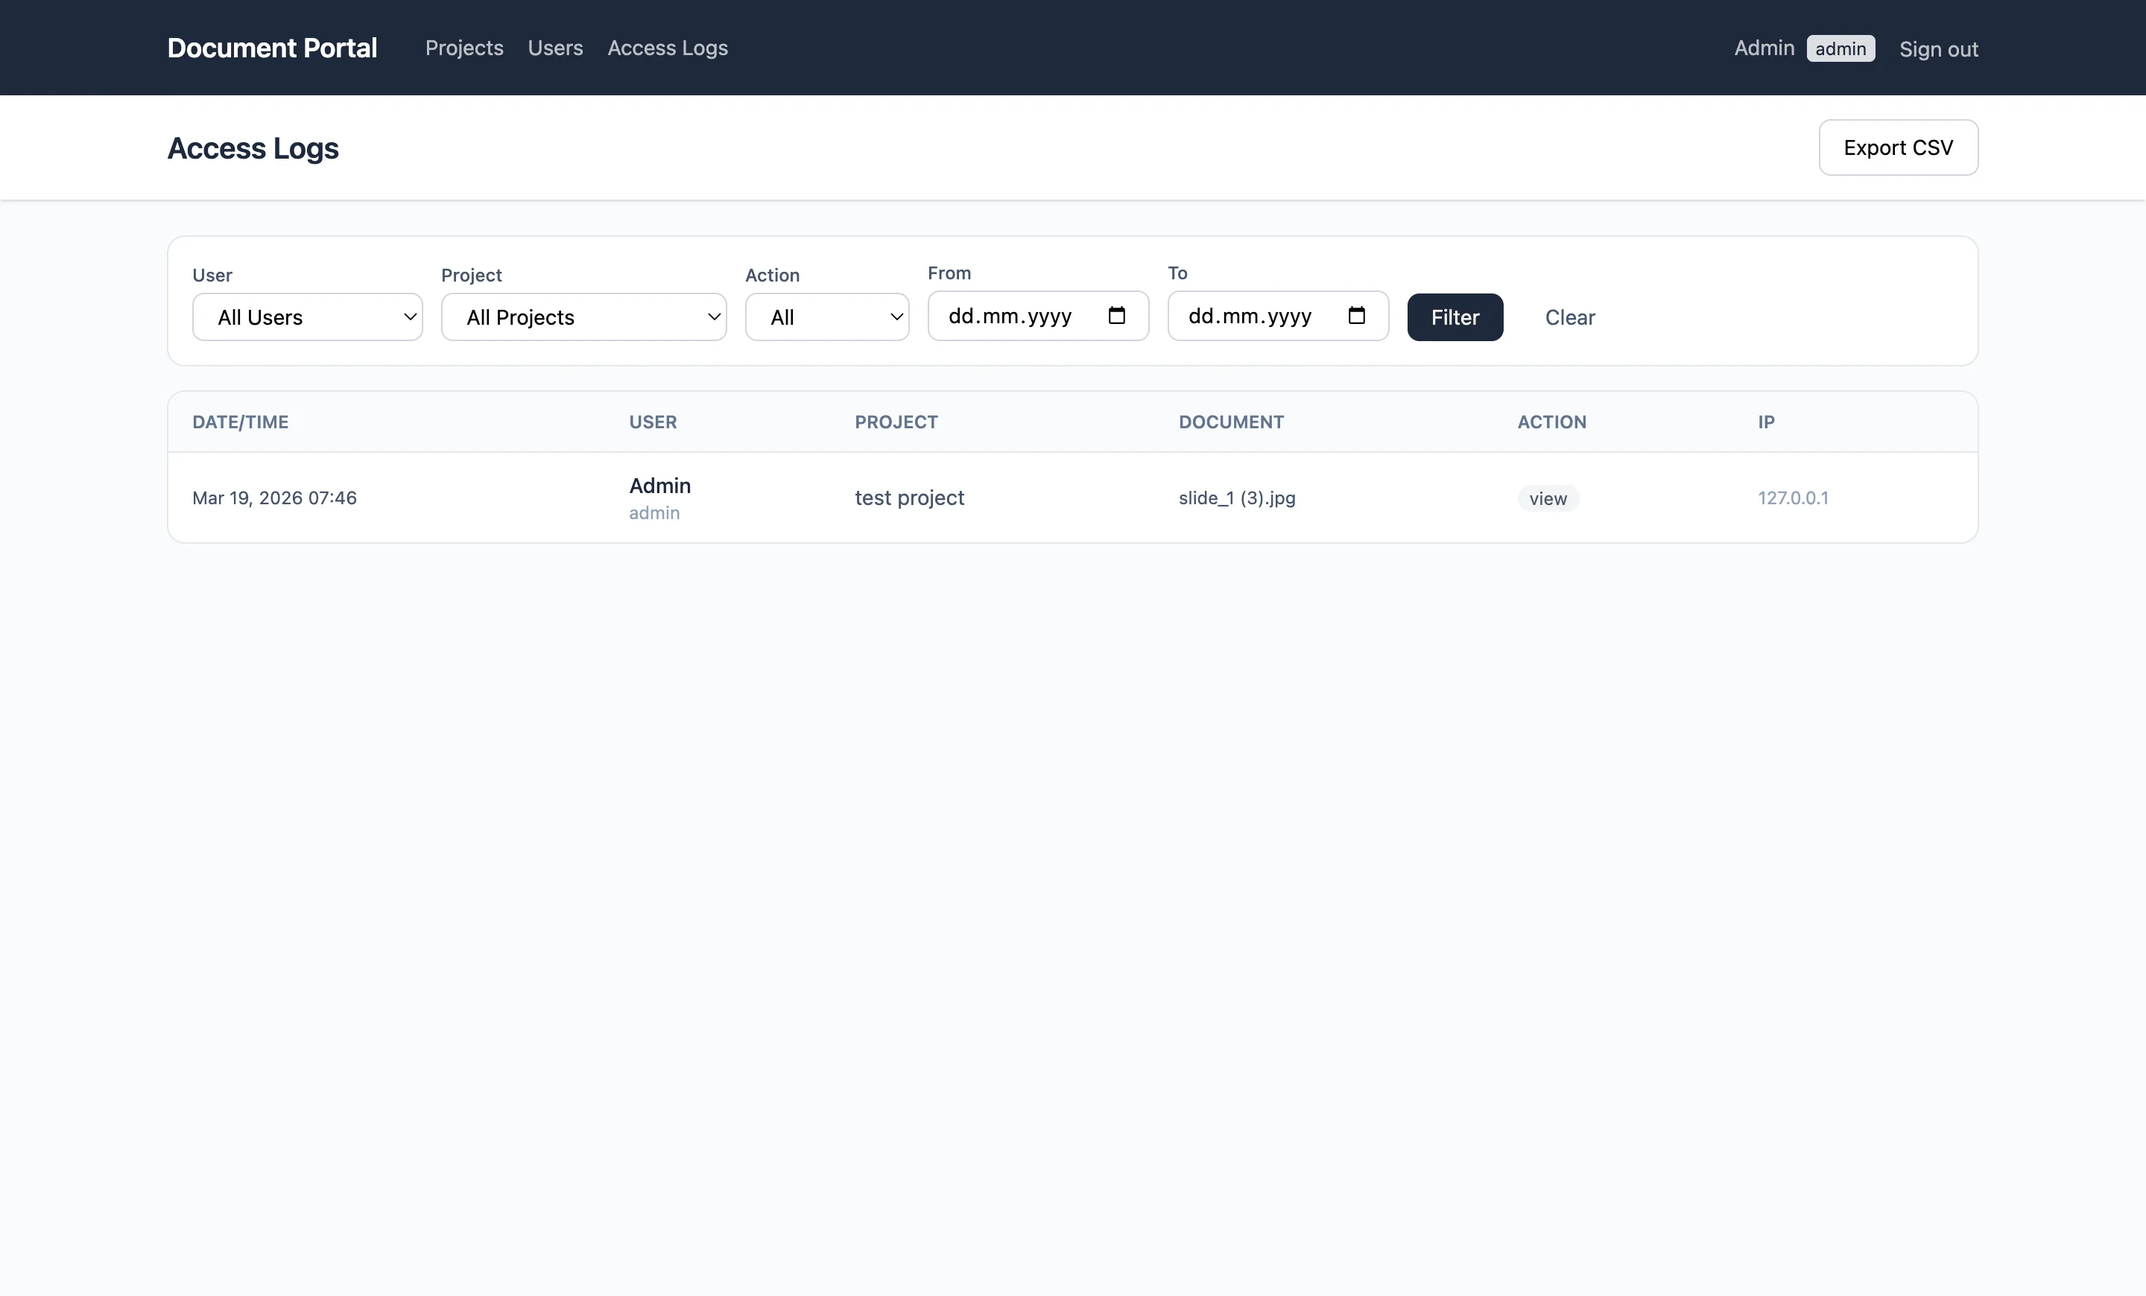
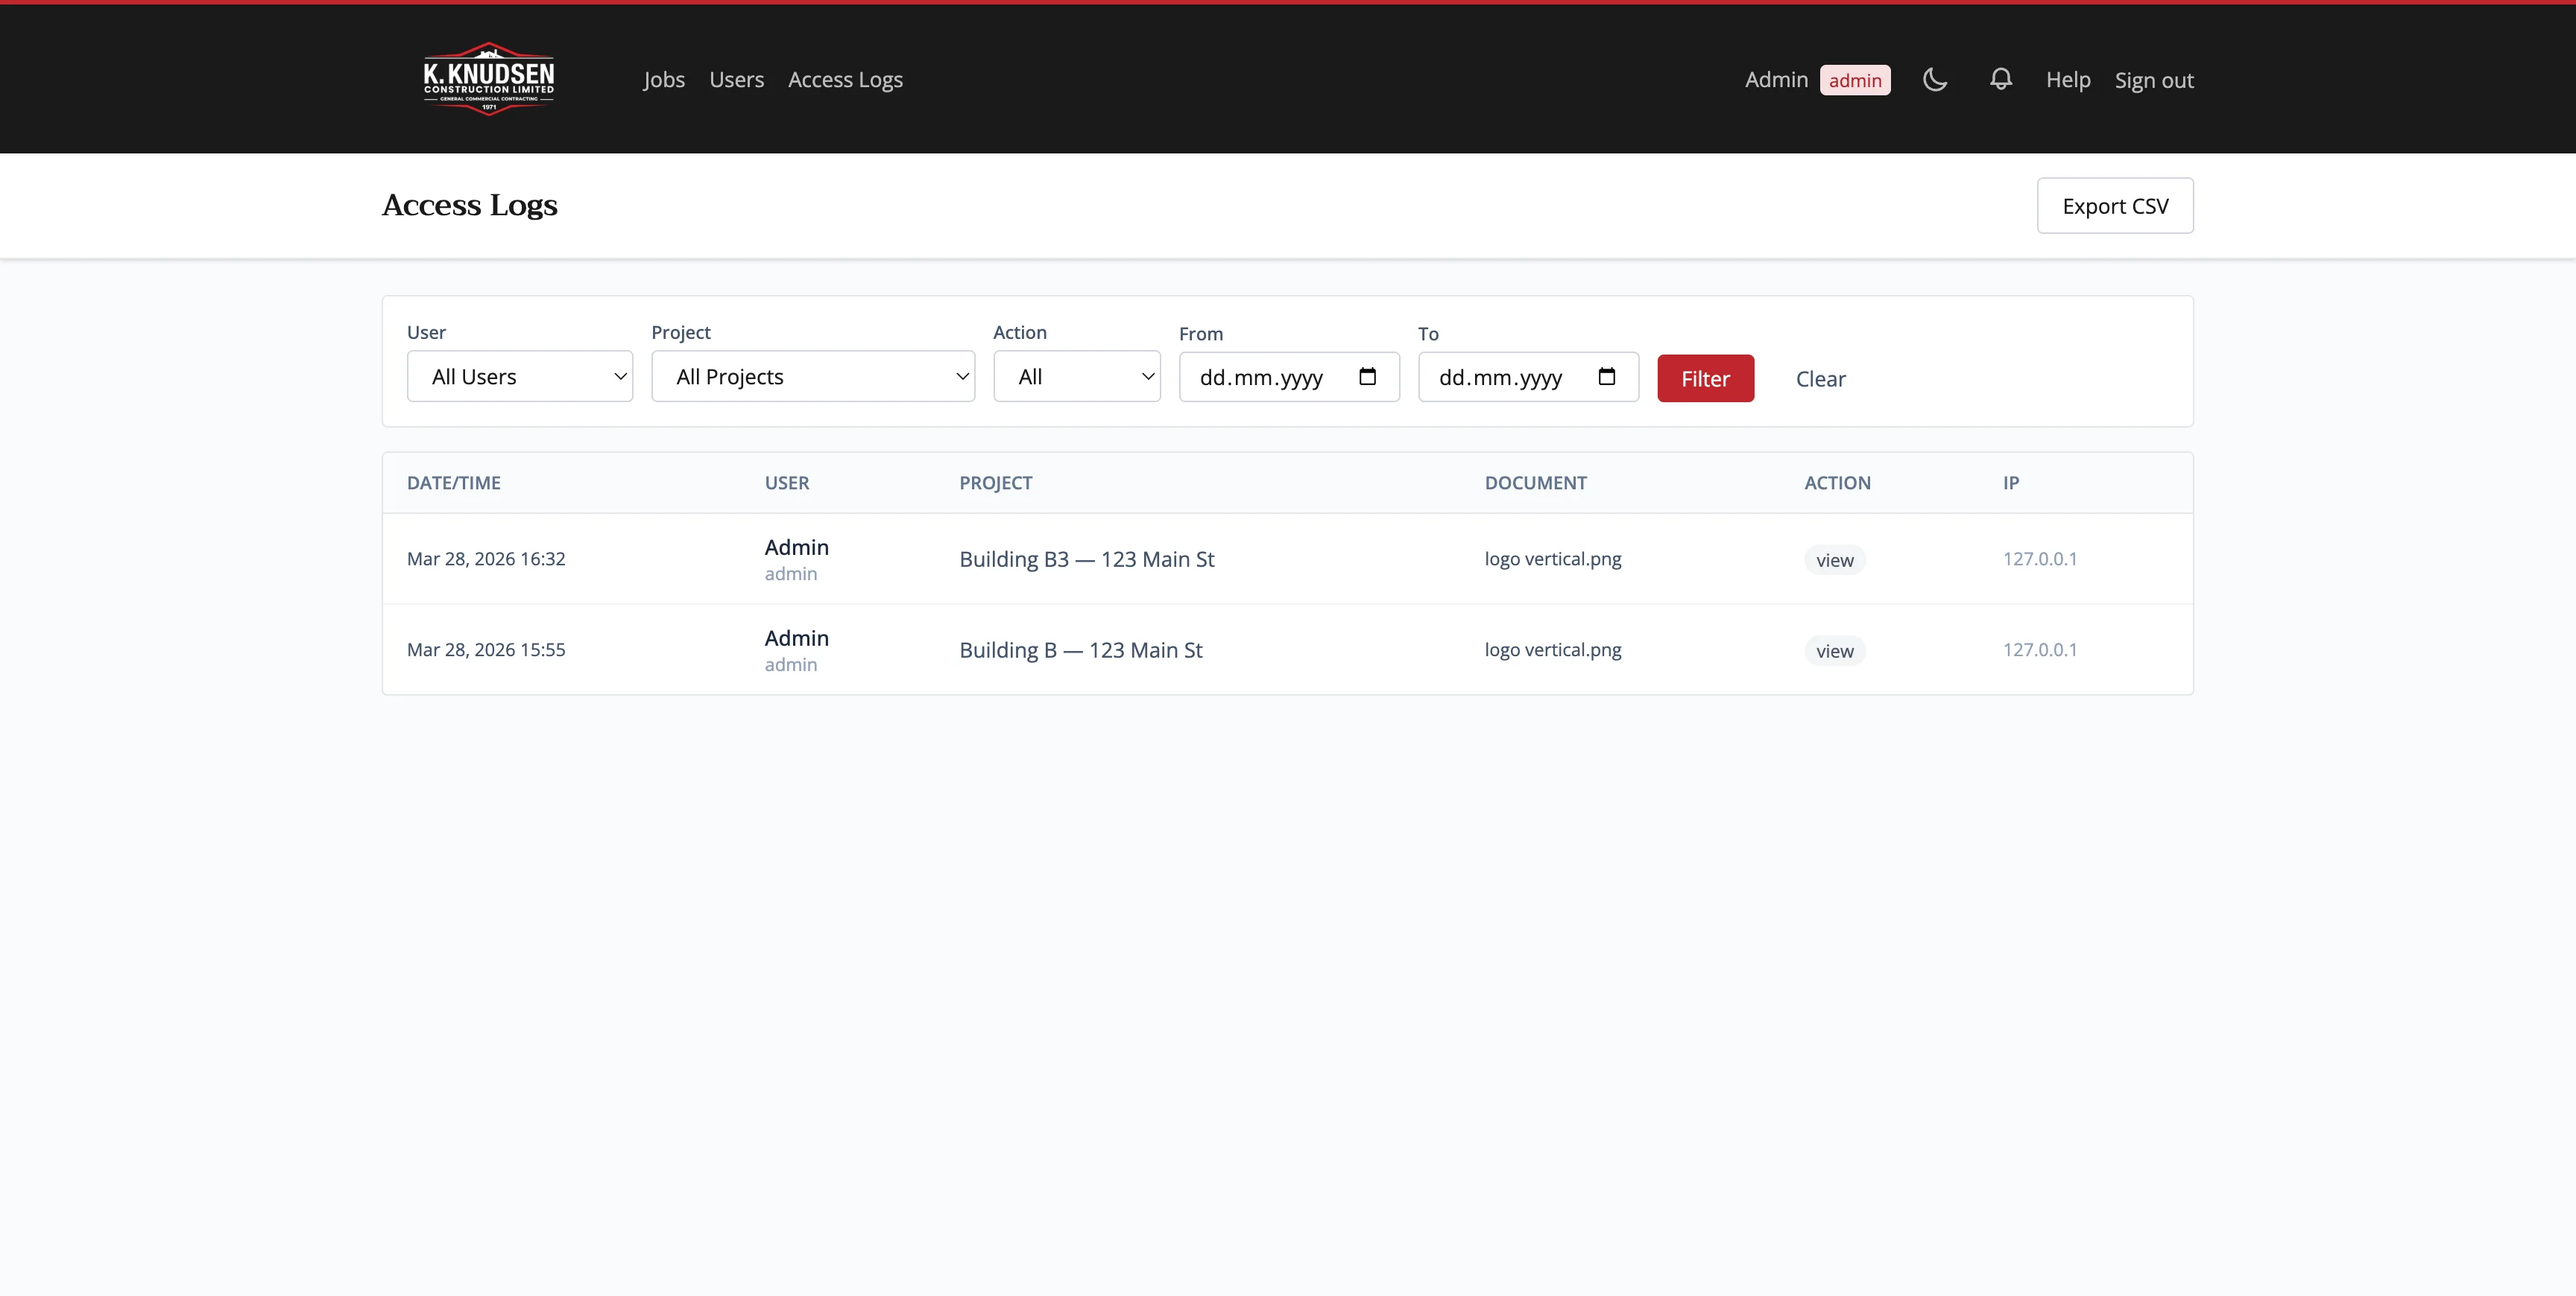
Update Document Portal case study with new features and screenshots
- Add 3 new screenshots: project view, read receipts, help/FAQ
- Refresh all existing screenshots with latest KKC branding
- Update stack: Laravel 13, PHP 8.3+
- Add feature cards: restricted folders, document replace/versioning,
  read receipts, ZIP closeout, Help/FAQ CMS
- Expand existing cards: access control, notifications, upload

diff --git a/studiu-de-caz/document-portal/index.html b/studiu-de-caz/document-portal/index.html
@@ -4,7 +4,7 @@
   <meta charset="UTF-8" />
   <meta name="viewport" content="width=device-width, initial-scale=1.0" />
   <title>Document Portal Case Study | Alexandru Ghita</title>
-  <meta name="description" content="Case study: Building a secure document management portal for construction companies — granular three-level access control, secure file delivery, queued email notifications, and per-client brand theming." />
+  <meta name="description" content="Case study: Building a secure document management portal for construction companies — granular three-level access control, restricted folders, document versioning, read receipts, queued email notifications, and per-client brand theming." />
   <!-- Google tag (gtag.js) -->
   <script async src="https://www.googletagmanager.com/gtag/js?id=G-HGD4Z726L2"></script>
   <script>
@@ -41,7 +41,7 @@
       <div class="container">
         <span class="cs-badge" data-aos="fade-up">Case Study &middot; B2B Web App</span>
         <h1 data-aos="fade-up" data-aos-delay="50">Document Portal</h1>
-        <p class="lead" data-aos="fade-up" data-aos-delay="100">A secure document management portal built for construction companies to share project files with clients, subcontractors, and consultants &mdash; with granular three-level access control, secure file delivery, queued email notifications, and per-deployment brand theming.</p>
+        <p class="lead" data-aos="fade-up" data-aos-delay="100">A secure document management portal built for construction companies to share project files with clients, subcontractors, and consultants &mdash; with granular three-level access control, restricted folders, document versioning, read receipts, queued email notifications, and per-deployment brand theming.</p>
       </div>
     </section>
 
@@ -53,19 +53,28 @@
           <div class="swiper">
             <div class="swiper-wrapper">
               <div class="swiper-slide">
-                <img src="dashboard.webp" alt="Document Portal — user dashboard with accessible projects" />
+                <img src="dashboard.webp" alt="Document Portal — user dashboard with active and archived job cards" />
               </div>
               <div class="swiper-slide">
-                <img src="access.webp" alt="Document Portal — granular access management with project/folder/file tabs" />
+                <img src="project.webp" alt="Document Portal — project view with folder sidebar, document list, upload form, and PM info" />
               </div>
               <div class="swiper-slide">
-                <img src="users.webp" alt="Document Portal — user management with roles and active/inactive toggle" />
+                <img src="access.webp" alt="Document Portal — granular access management with project/folder/file tabs and restricted folder warning" />
+              </div>
+              <div class="swiper-slide">
+                <img src="receipts.webp" alt="Document Portal — read receipts per project showing who has viewed each document" />
+              </div>
+              <div class="swiper-slide">
+                <img src="users.webp" alt="Document Portal — user management with roles, active status, and last login" />
               </div>
               <div class="swiper-slide">
                 <img src="logs.webp" alt="Document Portal — document access log with view and download events" />
               </div>
               <div class="swiper-slide">
-                <img src="login.webp" alt="Document Portal — login page" />
+                <img src="help.webp" alt="Document Portal — Help / FAQ page with admin-editable accordion content" />
+              </div>
+              <div class="swiper-slide">
+                <img src="login.webp" alt="Document Portal — branded login page for Knudsen Construction" />
               </div>
             </div>
             <div class="swiper-pagination"></div>
@@ -107,13 +116,13 @@
     <section class="cs-section alt">
       <div class="container">
         <h2 data-aos="fade-up">Tech Stack <span class="section-sub">/ what powers it</span></h2>
-        <p class="cs-section-intro" data-aos="fade-up" data-aos-delay="50">A clean Laravel 11 monolith with Blade + Alpine.js, deployed to standard shared PHP hosting on SiteGround. SQLite for development, MySQL for production. Each client gets their own installation and domain.</p>
+        <p class="cs-section-intro" data-aos="fade-up" data-aos-delay="50">A clean Laravel 13 monolith with Blade + Alpine.js, deployed to standard shared PHP hosting on SiteGround. SQLite for development, MySQL for production. Each client gets their own installation and domain.</p>
         <div class="cs-tech-grid">
           <div class="cs-tech-card" data-aos="fade-up" data-aos-delay="50">
             <h4>Backend</h4>
             <div class="cs-tech-tags">
-              <span class="cs-tech-tag">Laravel 11</span>
-              <span class="cs-tech-tag">PHP 8.4</span>
+              <span class="cs-tech-tag">Laravel 13</span>
+              <span class="cs-tech-tag">PHP 8.3+</span>
               <span class="cs-tech-tag">Queued Jobs</span>
             </div>
           </div>
@@ -168,7 +177,7 @@
         <div class="cs-features-grid">
           <div class="cs-feature" data-aos="fade-up" data-aos-delay="50">
             <h3>Three-Level Access Control</h3>
-            <p>Grant access at the full project level, specific folders, or individual files. Each level has its own permission flags: can view, can download, notify on new upload. When saving, lower-level records are cleared automatically to keep access clean.</p>
+            <p>Grant access at the full project level, specific folders, or individual files. Each level has its own permission flags: can view, can download, notify on new upload. When saving, lower-level records are cleared automatically to keep access clean. A quick-assign button grants a subtrade access to all non-restricted folders in one click.</p>
           </div>
           <div class="cs-feature" data-aos="fade-up" data-aos-delay="100">
             <h3>Secure File Delivery</h3>
@@ -179,32 +188,44 @@
             <p>Five roles: admin (full system access), staff (can upload, limited admin panel), subtrade, consultant, owner (access via access records only). Role middleware protects routes. Inactive users are kicked out on every request.</p>
           </div>
           <div class="cs-feature" data-aos="fade-up" data-aos-delay="200">
-            <h3>Folder Hierarchy</h3>
-            <p>Projects have nested folder structures with parent/child relationships and sort order. Admins can create, rename, and delete folders. Users see only the folders they have access to.</p>
+            <h3>Folder Hierarchy &amp; Restricted Folders</h3>
+            <p>Projects have nested folder structures with parent/child relationships and sort order. Folders can be marked as restricted &mdash; blocking all non-admin roles from seeing them via project-level access. The Financials folder is restricted by default; a subtrade or owner can only access it if explicitly granted folder-level access by an admin.</p>
           </div>
           <div class="cs-feature" data-aos="fade-up" data-aos-delay="250">
-            <h3>Document Upload</h3>
-            <p>Upload PDF, DOCX, XLSX, DWG, PNG, JPG files up to 51MB. Files are stored with a project-scoped path. On upload, a queued notification job emails all users with notify permissions for that project.</p>
+            <h3>Document Upload &amp; Replace</h3>
+            <p>Upload multiple files in one go with a per-file note shown in the doc list and in notification emails. Replacing a document keeps the display name intact and records a revision string (e.g. "Rev B") as a visible badge &mdash; so the document history stays clean. Replacing fires the same notification as a new upload.</p>
           </div>
           <div class="cs-feature" data-aos="fade-up" data-aos-delay="300">
             <h3>Email Notifications</h3>
-            <p>When a document is uploaded, a queued job dispatches email notifications to all users with notify_on_new_document enabled at the project level. Queue runs via database driver &mdash; no Redis needed, cron-triggered on SiteGround.</p>
+            <p>Upload or replace a document and a queued job emails every user with access at the project, folder, or file level. The uploader is excluded from their own notification. Queue runs via database driver &mdash; no Redis needed, cron-triggered on SiteGround.</p>
           </div>
           <div class="cs-feature" data-aos="fade-up" data-aos-delay="350">
-            <h3>Access Audit Log</h3>
-            <p>Every view and download is logged with user, document, action, IP address, and user agent. Admins have a dedicated log viewer to track who accessed what and when.</p>
+            <h3>Read Receipts</h3>
+            <p>Per-project read-receipt view shows exactly which documents each user has opened and how many downloads they've made. Admins can see at a glance who hasn't opened a file yet &mdash; useful for chasing sign-offs on critical documents.</p>
           </div>
           <div class="cs-feature" data-aos="fade-up" data-aos-delay="400">
+            <h3>Access Audit Log</h3>
+            <p>Every view and download is logged with user, document, action, IP address, and user agent. Admins have a dedicated log viewer with CSV export to track who accessed what and when.</p>
+          </div>
+          <div class="cs-feature" data-aos="fade-up" data-aos-delay="450">
+            <h3>ZIP Project Closeout</h3>
+            <p>One-click ZIP download of all documents in a project, preserving the folder structure. Useful for archiving completed jobs or handing off the full document set to the client at closeout.</p>
+          </div>
+          <div class="cs-feature" data-aos="fade-up" data-aos-delay="500">
             <h3>Per-Client Brand Theming</h3>
             <p>Each client deployment has its own brand color set via APP_COLOR in .env. The color is injected as a CSS custom property at runtime &mdash; no asset rebuild required. Navigation, buttons, and badges all pick up the brand color automatically.</p>
           </div>
-          <div class="cs-feature" data-aos="fade-up" data-aos-delay="450">
-            <h3>User Management</h3>
-            <p>Admin CRUD for users with role assignment and active/inactive toggle. Deactivated users are immediately locked out on their next request via middleware. Last login time is tracked per user.</p>
+          <div class="cs-feature" data-aos="fade-up" data-aos-delay="550">
+            <h3>Help / FAQ CMS</h3>
+            <p>Admins can edit the Help page directly from the admin panel &mdash; add, remove, and reorder FAQ items without touching code. Content is stored in the settings table as JSON and rendered as an accordion for end users.</p>
           </div>
-          <div class="cs-feature" data-aos="fade-up" data-aos-delay="500">
+          <div class="cs-feature" data-aos="fade-up" data-aos-delay="600">
+            <h3>User Management</h3>
+            <p>Admin CRUD for users with role assignment, company, phone, and active/inactive toggle. Deactivated users are immediately locked out on their next request via middleware. Last login time is tracked per user.</p>
+          </div>
+          <div class="cs-feature" data-aos="fade-up" data-aos-delay="650">
             <h3>Multi-Tenant by Design</h3>
-            <p>Each client gets a completely separate Laravel installation on their own domain or subdomain &mdash; no shared database, full data isolation. Setting up a new client means cloning the repo, configuring .env, and seeding their admin user.</p>
+            <p>Each client gets a completely separate Laravel installation on their own domain or subdomain &mdash; no shared database, full data isolation. Setting up a new client means cloning the repo, configuring .env with their brand color and name, and seeding their admin user.</p>
           </div>
         </div>
       </div>
@@ -297,7 +318,7 @@
   <footer>
     <div class="container footer-inner">
       <span>Alexandru Daniel Ghita / Timisoara / 2026</span>
-      <span class="footer-right">Laravel / PHP / Tailwind CSS / Alpine.js</span>
+      <span class="footer-right">Laravel 13 / PHP / Tailwind CSS / Alpine.js</span>
     </div>
   </footer>
 
